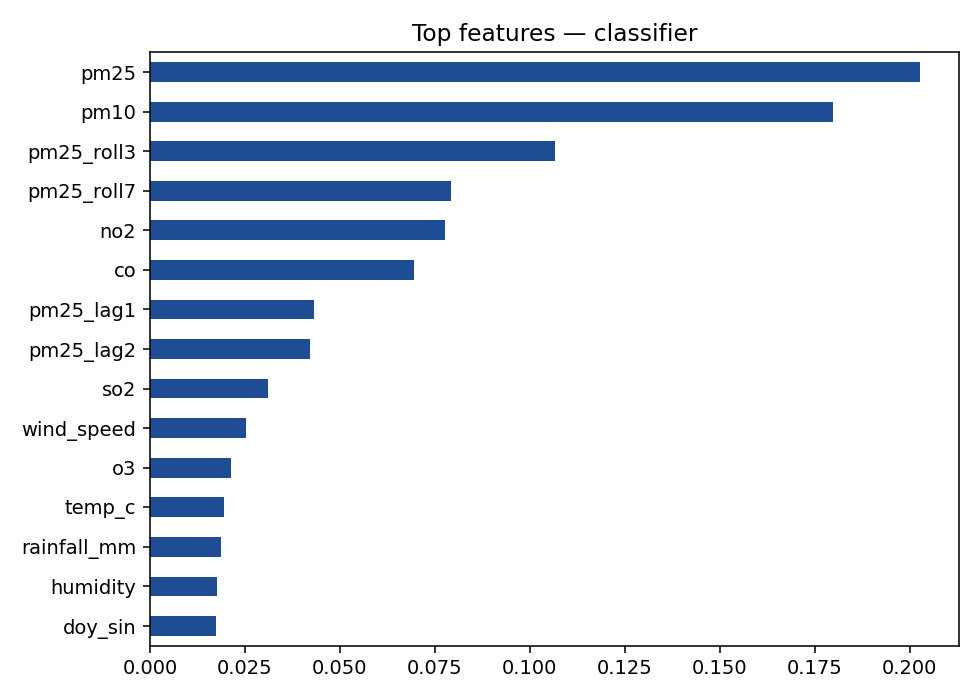
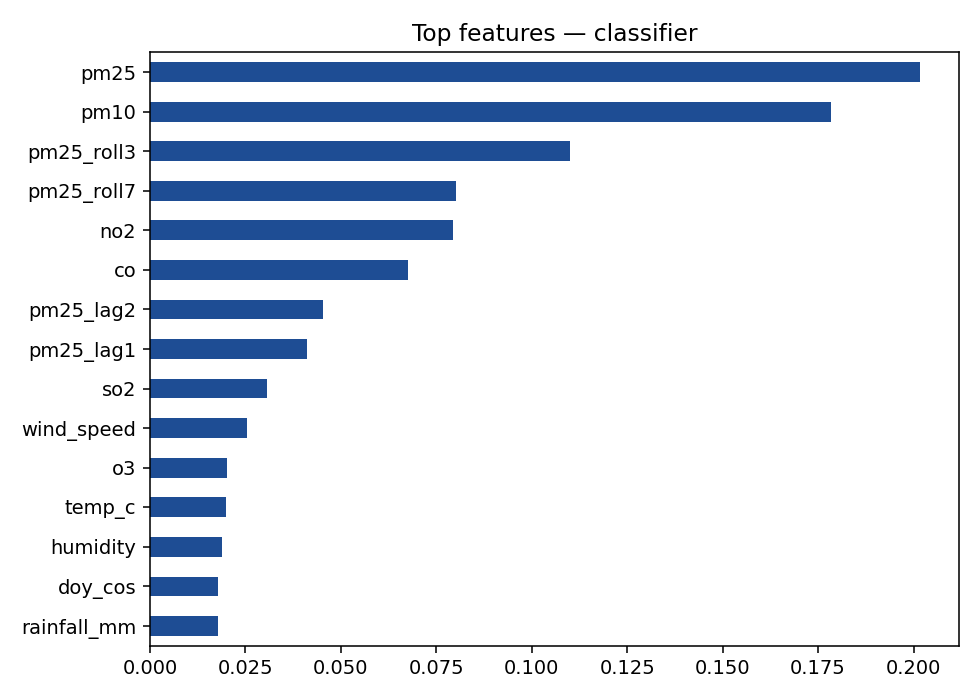
Fix label encoding + prediction form: correct multi-class label mapping
BUG 1 (critical): y.cat.codes sorted categories alphabetically (High=0, Low=1, Moderate=2) so app.py's RISK_LABELS[code] displayed every prediction with the wrong name. Fixed by forcing pd.Categorical(..., categories=RISK_LABELS, ordered=True) in features.py. Per-class precision/recall in metrics.json was also affected. Retrained.

BUG 2: prediction form left rolling/lag features at city history values — overwriting only today's pm25 barely moved predictions. Now overwrites last 7 days so rolling/lag align with the hypothetical scenario.

diff --git a/app.py b/app.py
@@ -96,15 +96,21 @@ with st.form("predict"):
     submitted = st.form_submit_button("Predict")
 
 if submitted:
-    # Build a single-row feature vector by inheriting yesterday's city profile.
-    today = city_df.iloc[-1:].copy()
-    today["pm25"] = pm25
-    today["pm10"] = pm10
-    today["no2"] = no2
-    today["temp_c"] = temp
-    today["humidity"] = humidity
-    today["wind_speed"] = wind
-    appended = pd.concat([city_df, today], ignore_index=True)
+    # Treat the user's inputs as a sustained scenario: overwrite the last
+    # `HISTORY_DAYS` of city history so the rolling-mean and lag features
+    # (which dominate the model) actually reflect the hypothetical day.
+    # Without this, the model sees today's pm25 = user input but the rolling
+    # 7-day mean still reflects the city's real recent values → predictions
+    # don't move when the user changes inputs.
+    HISTORY_DAYS = 7
+    recent = city_df.iloc[-HISTORY_DAYS:].copy()
+    recent["pm25"] = pm25
+    recent["pm10"] = pm10
+    recent["no2"] = no2
+    recent["temp_c"] = temp
+    recent["humidity"] = humidity
+    recent["wind_speed"] = wind
+    appended = pd.concat([city_df.iloc[:-HISTORY_DAYS], recent], ignore_index=True)
     X, _, _, _ = features.build_feature_table(appended)
     x_row = X.iloc[[-1]]
     # The classifier was trained on the full multi-city table, so it expects all

diff --git a/src/features.py b/src/features.py
@@ -10,6 +10,8 @@ from __future__ import annotations
 import numpy as np
 import pandas as pd
 
+from . import config
+
 
 ROLL_WINDOWS = [3, 7]   # short-term and weekly exposure windows
 LAG_DAYS = [1, 2]
@@ -58,7 +60,14 @@ def build_feature_table(df: pd.DataFrame):
         "pm25_roll3", "pm25_roll7", "pm25_lag1", "pm25_lag2",
     ]
     X = pd.concat([df[feature_cols], city_oh], axis=1)
-    y_class = df["risk_label"].astype("category")
+    # Explicit ordered category so .cat.codes are deterministic and match
+    # config.RISK_LABELS: Low=0, Moderate=1, High=2. Without this, pandas sorts
+    # categories alphabetically (High=0, Low=1, Moderate=2) and the downstream
+    # app/report would associate the wrong names with each class.
+    y_class = pd.Categorical(
+        df["risk_label"], categories=config.RISK_LABELS, ordered=True,
+    )
+    y_class = pd.Series(y_class, index=df.index, name="risk_label")
     y_reg = df["aqi"]
     meta = df[["date", "city", "lat", "lon"]].copy()
     return X, y_class, y_reg, meta